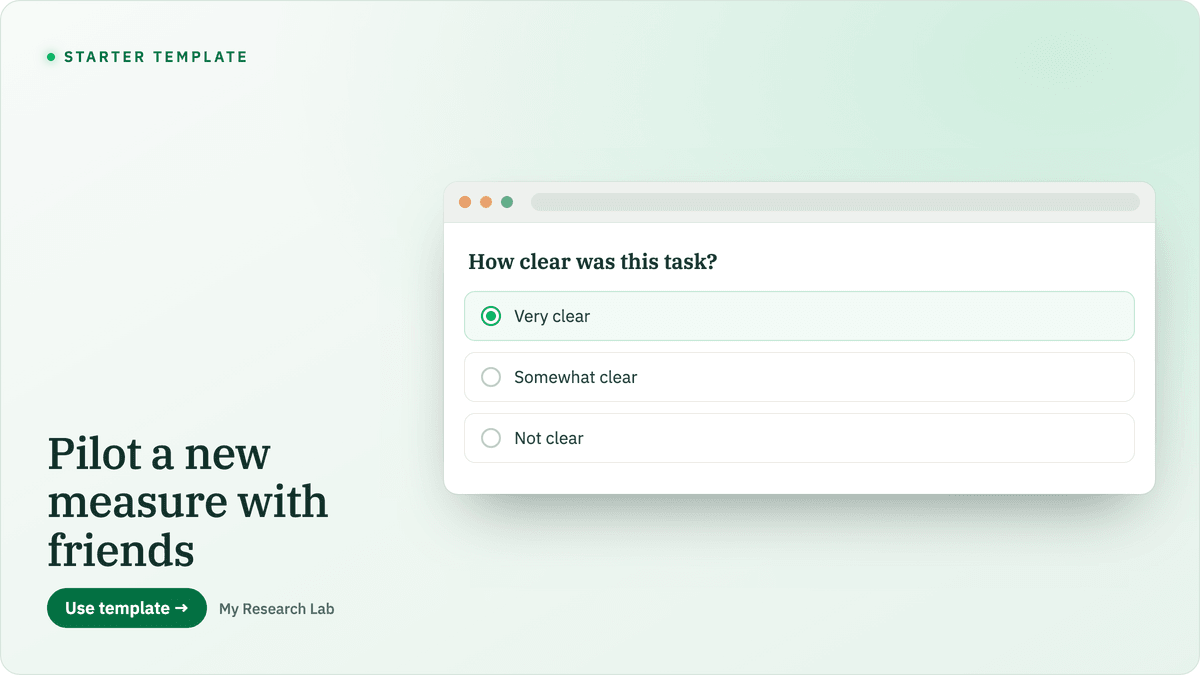
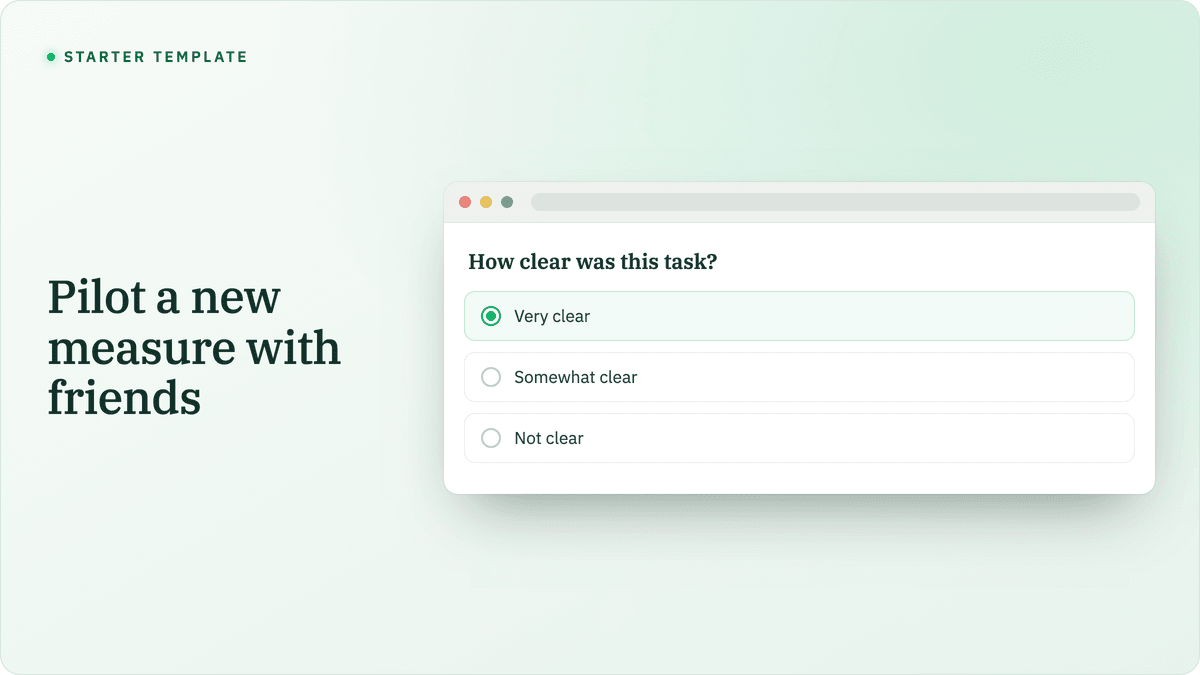
feat(explore): lead with starter covers, drop the use-case band
Owner feedback: the "Start with a use case" band duplicated the Featured
starter templates once those carried real covers. Removed it — Featured
starter templates is now the lead band, widened to a 2-up desktop grid.

Its two unique hooks are preserved:
- the guided Builder tutorial now rides the Featured card's "Use template"
  for tour-enabled starters (misinfo/A-B/pilot) via a new optional tourSlug
  on UseTemplateButton (-> ?tour=<slug>); non-tour starters open plain.
- a persistent "Browse published studies ->" link now sits in the Explore
  header (previously only the removed scenario + the conditional community
  band pointed at /browse).

Covers refreshed per feedback: dropped the "Use template" pill + "My
Research Lab" wordmark from the frame; added a 4th cover for the Quick
opinion survey starter. Rendered via Playwright, committed to
public/explore-covers/.

Deleted the now-dead ExploreScenarioCard + content/explore/scenarios.ts
(+ its test); the tour infra (scenario-tour-steps.ts) is untouched and
StartTutorialButton is independent. Wireframe amended; use-case-card
wireframe marked superseded.

tsc/lint clean; 935 tests; build 25/25; validator 264. No migration.

diff --git a/05_app/components/feature/explore/explore-content.tsx b/05_app/components/feature/explore/explore-content.tsx
@@ -2,10 +2,13 @@ import { LayoutTemplate } from "lucide-react";
 import Link from "next/link";
 import type { Route } from "next";
 
-import { ExploreScenarioCard } from "@/components/feature/explore/explore-scenario-card";
 import { templateCoverSrc } from "@/components/feature/explore/template-cover";
 import { UseTemplateButton } from "@/components/feature/library/use-template-button";
-import { getExploreScenarios } from "@/content/explore/scenarios";
+import {
+  STARTER_AB_TEMPLATE_ID,
+  STARTER_MISINFO_TEMPLATE_ID,
+  STARTER_PILOT_TEMPLATE_ID,
+} from "@/lib/system/starter";
 
 /**
  * Explore content island (EE1, ADR-0076; explore-destination.md). One component
@@ -14,9 +17,12 @@ import { getExploreScenarios } from "@/content/explore/scenarios";
  * workspace-scoped affordances. The dynamic data is fetched by the page and
  * passed in, so the island stays presentational + shell-agnostic.
  *
- * EE1.3 wired the curated scenarios (EE1.2) + the dynamic featured-templates and
- * community-studies bands. Empty dynamic bands collapse (no empty shells); the
- * researcher showcase awaits opt-in profiles (EE2).
+ * Bands: featured starter templates → community studies → opt-in researcher
+ * showcase (all collapse when empty). The earlier "Start with a use case" band
+ * was removed (owner 2026-07-04): it duplicated the featured templates. Its two
+ * unique hooks were preserved — the guided tour now rides the featured cards'
+ * "Use template" (via STARTER_TOUR_SLUG → UseTemplateButton), and a persistent
+ * "Browse published studies" link in the header keeps /browse reachable.
  */
 export type FeaturedTemplate = {
   id: string;
@@ -44,6 +50,19 @@ const COVER_FRAME = "aspect-[16/9] w-full overflow-hidden";
 const COVER_PLACEHOLDER =
   "flex size-full items-center justify-center bg-gradient-to-br from-[var(--color-primary-subtle)] to-[var(--color-surface-subtle)]";
 
+/**
+ * Tour-enabled starter templates → their guided-tour slug (= scenario slug the
+ * BuilderScenarioTour narrows via scenarioTourFor). Featured cards for these
+ * starters open the Builder with `?tour=`, preserving the guided tutorial that
+ * used to launch from the removed "Start with a use case" band. Starters absent
+ * here (e.g. survey) just open the Builder with no tour.
+ */
+const STARTER_TOUR_SLUG: Record<string, string> = {
+  [STARTER_MISINFO_TEMPLATE_ID]: "misinformation-study",
+  [STARTER_AB_TEMPLATE_ID]: "prolific-ab-test",
+  [STARTER_PILOT_TEMPLATE_ID]: "pilot-with-friends",
+};
+
 export function ExploreContent({
   isPublic = false,
   featuredTemplates = [],
@@ -55,39 +74,32 @@ export function ExploreContent({
   communityStudies?: CommunityStudy[];
   showcaseProfiles?: ShowcaseProfile[];
 }) {
-  const scenarios = getExploreScenarios();
   return (
     <div className="flex flex-col gap-4">
-      <header className="flex flex-col gap-1">
-        <h1 className="font-serif text-[length:var(--text-display)] font-medium text-[var(--color-text-primary)]">
-          Explore
-        </h1>
-        <p className="text-[length:var(--text-body)] text-[var(--color-text-secondary)]">
-          See what you can run, then make it yours.
-        </p>
+      <header className="flex flex-wrap items-end justify-between gap-3">
+        <div className="flex flex-col gap-1">
+          <h1 className="font-serif text-[length:var(--text-display)] font-medium text-[var(--color-text-primary)]">
+            Explore
+          </h1>
+          <p className="text-[length:var(--text-body)] text-[var(--color-text-secondary)]">
+            See what you can run, then make it yours.
+          </p>
+        </div>
+        <Link
+          href={(isPublic ? "/signup" : "/browse") as Route}
+          className="text-[length:var(--text-body)] font-medium text-[var(--color-primary)] hover:underline"
+        >
+          Browse published studies →
+        </Link>
       </header>
 
-      {/* Band 1 — curated use-case scenarios (EE1.2) */}
-      <section aria-labelledby="explore-scenarios" className={BAND}>
-        <h2 id="explore-scenarios" className={BAND_TITLE}>
-          Start with a use case
-        </h2>
-        <ul className="grid grid-cols-2 gap-3 lg:grid-cols-4">
-          {scenarios.map((s) => (
-            <li key={s.slug}>
-              <ExploreScenarioCard scenario={s} isPublic={isPublic} />
-            </li>
-          ))}
-        </ul>
-      </section>
-
-      {/* Band 2 — featured starter templates (collapses when none) */}
+      {/* Band 1 — featured starter templates (collapses when none) */}
       {featuredTemplates.length > 0 ? (
         <section aria-labelledby="explore-templates" className={BAND}>
           <h2 id="explore-templates" className={BAND_TITLE}>
             Featured starter templates
           </h2>
-          <ul className="grid grid-cols-1 gap-4 sm:grid-cols-2 lg:grid-cols-3">
+          <ul className="grid grid-cols-1 gap-4 sm:grid-cols-2 lg:grid-cols-2">
             {featuredTemplates.map((t) => {
               const coverSrc = templateCoverSrc(t);
               return (
@@ -124,7 +136,7 @@ export function ExploreContent({
                           Use template
                         </Link>
                       ) : (
-                        <UseTemplateButton templateId={t.id} />
+                        <UseTemplateButton templateId={t.id} tourSlug={STARTER_TOUR_SLUG[t.id]} />
                       )}
                     </div>
                   </div>
@@ -136,7 +148,7 @@ export function ExploreContent({
         </section>
       ) : null}
 
-      {/* Band 3 — community studies (collapses when none) */}
+      {/* Band 2 — community studies (collapses when none) */}
       {communityStudies.length > 0 ? (
         <section aria-labelledby="explore-community" className={BAND}>
           <div className="flex items-baseline justify-between gap-3">
@@ -185,7 +197,7 @@ export function ExploreContent({
         </section>
       ) : null}
 
-      {/* Band 4 — opt-in researcher showcase (EE2): only when profiles exist. */}
+      {/* Band 3 — opt-in researcher showcase (EE2): only when profiles exist. */}
       {showcaseProfiles.length > 0 ? (
         <section aria-labelledby="explore-researchers" className={BAND}>
           <h2 id="explore-researchers" className={BAND_TITLE}>

diff --git a/05_app/components/feature/library/use-template-button.tsx b/05_app/components/feature/library/use-template-button.tsx
@@ -9,11 +9,25 @@ import { api } from "@/lib/trpc/react";
 /**
  * "Use template" CTA for the template detail page (ADR-0063). Forks the frozen
  * version into the active workspace and lands the researcher in the new Builder.
+ *
+ * `tourSlug` (optional): when set, the Builder is opened with `?tour=<slug>` so a
+ * matching guided coachmark tour auto-launches once (localStorage-gated). Used by
+ * the Explore Featured band so its tour-enabled starters (misinfo / A/B / pilot)
+ * keep the guided tutorial that used to live on the "Start with a use case" band.
  */
-export function UseTemplateButton({ templateId }: { templateId: string }) {
+export function UseTemplateButton({
+  templateId,
+  tourSlug,
+}: {
+  templateId: string;
+  tourSlug?: string;
+}) {
   const router = useRouter();
   const use = api.templates.useTemplate.useMutation({
-    onSuccess: (res) => router.push(`/studies/${res.id}/build` as Route),
+    onSuccess: (res) =>
+      router.push(
+        (tourSlug ? `/studies/${res.id}/build?tour=${tourSlug}` : `/studies/${res.id}/build`) as Route,
+      ),
   });
   return (
     <div className="flex flex-col items-start gap-1">

diff --git a/05_app/components/feature/explore/__tests__/explore-content.test.ts b/05_app/components/feature/explore/__tests__/explore-content.test.ts
@@ -18,6 +18,9 @@ describe("templateCoverSrc — featured-template cover precedence (ADR-0091)", (
     expect(templateCoverSrc({ id: STARTER_PILOT_TEMPLATE_ID, coverImageR2Key: null })).toBe(
       "/explore-covers/pilot.png",
     );
+    expect(templateCoverSrc({ id: "starter-survey-v1", coverImageR2Key: null })).toBe(
+      "/explore-covers/survey.png",
+    );
   });
 
   it("the committed starter asset wins even if a coverImageR2Key is also set", () => {
@@ -32,9 +35,7 @@ describe("templateCoverSrc — featured-template cover precedence (ADR-0091)", (
     );
   });
 
-  it("a template with neither returns null (card falls back to the gradient)", () => {
+  it("a non-starter template with neither returns null (card falls back to the gradient)", () => {
     expect(templateCoverSrc({ id: "user-template-123", coverImageR2Key: null })).toBeNull();
-    // The survey starter intentionally has no committed cover yet.
-    expect(templateCoverSrc({ id: "starter-survey-v1", coverImageR2Key: null })).toBeNull();
   });
 });

diff --git a/05_app/components/feature/explore/template-cover.ts b/05_app/components/feature/explore/template-cover.ts
@@ -2,6 +2,7 @@ import {
   STARTER_AB_TEMPLATE_ID,
   STARTER_MISINFO_TEMPLATE_ID,
   STARTER_PILOT_TEMPLATE_ID,
+  STARTER_SURVEY_TEMPLATE_ID,
 } from "@/lib/system/starter";
 
 /**
@@ -18,6 +19,7 @@ const STARTER_TEMPLATE_COVERS: Record<string, string> = {
   [STARTER_MISINFO_TEMPLATE_ID]: "/explore-covers/misinfo.png",
   [STARTER_AB_TEMPLATE_ID]: "/explore-covers/ab.png",
   [STARTER_PILOT_TEMPLATE_ID]: "/explore-covers/pilot.png",
+  [STARTER_SURVEY_TEMPLATE_ID]: "/explore-covers/survey.png",
 };
 
 /**

diff --git a/03_design/wireframes/explore-destination.md b/03_design/wireframes/explore-destination.md
@@ -5,6 +5,8 @@
 - **Persona:** [Postdoc operator](../../02_product/personas/postdoc-operator.md)
 - **Status:** draft
 
+> **Amendment 2026-07-04 (owner):** The **Use-case scenarios band** ("Start with a use case") was **removed** — it duplicated the Featured starter templates once those carried real covers. Featured starter templates is now the lead band. Its two unique hooks were preserved: (a) the **guided tutorial** now launches from the Featured card's "Use template" for tour-enabled starters (misinfo / A/B / pilot) via `?tour=`, and (b) a persistent **"Browse published studies →"** link now lives in the header band (previously only the curated "replicate-published" scenario + the community band's conditional "Browse all" pointed at `/browse`). The `content/explore/scenarios.ts` module + `ExploreScenarioCard` were deleted (dead code). Featured tiles widened to a 2-up grid on desktop.
+
 ## Purpose
 
 > One sentence: what this screen exists to do.
@@ -17,21 +19,20 @@ Show a researcher (or a prospect) what Massive Research Tool can do and give the
 
 Single scrolling column on `surface.page` parchment, max-width ~1100px centred, vertical rhythm of stacked **bands** (modular floating cards on parchment, per design language v0.6):
 
-1. **Header band** — Plex Serif headline ("Explore") + one-line subhead. In the authed variant this sits under the standard workspace TopBar; in the public variant it sits under the marketing header (see [explore-public-route-header](./explore-public-route-header.md)).
-2. **Use-case scenarios band** — 2-up (desktop) / 1-up (mobile) grid of scenario cards (see [explore-use-case-card](./explore-use-case-card.md)). Always present (curated; never empty).
-3. **Featured starter templates band** — section heading + horizontal card grid (up to 6), each a template card (cover, name, description, use-count, "Use this template"). "See all templates →" link to Library/Browse.
-4. **Community studies band** — section heading + card grid (6–9) of public studies (title, author, tags, use-count, "Replicate"). "See more →" → `/browse`.
-5. **Researcher showcase band** — avatars + names of opt-in researchers; entire band omitted when none exist.
+1. **Header band** — Plex Serif headline ("Explore") + one-line subhead on the left; a persistent **"Browse published studies →"** link on the right (→ `/browse`, or `/signup` in the public variant). In the authed variant this sits under the standard workspace TopBar; in the public variant it sits under the marketing header (see [explore-public-route-header](./explore-public-route-header.md)).
+2. **Featured starter templates band** (lead band) — section heading + card grid, **2-up on desktop** / 1-up on mobile (up to 6), each a template card (cover image, name, description, use-count, "Use template"). Tour-enabled starters (misinfo / A/B / pilot) launch the guided Builder tour on use.
+3. **Community studies band** — section heading + card grid (6–9) of public studies (title, author, tags, use-count, "Replicate"). Header "Browse all →" → `/browse`.
+4. **Researcher showcase band** — opt-in researchers; entire band omitted when none exist.
 
-Bands 3–5 are dynamic; band 2 is curated and carries the page if the catalogue is cold.
+All three bands are dynamic and collapse when empty. The app-shipped starter templates (seeded) keep the Featured band populated on a cold catalogue, so it reliably carries the page.
 
 ## Content inventory
 
 > Every piece of content visible on the screen.
 
 - **Page headline + subhead** — static copy ("Explore" / "See what you can run, then make it yours").
-- **Scenario cards** — from Markdown files in `content/explore/scenarios/*.md` (title, 2-sentence body, cover image, primary CTA, optional "Read more →"). 5–8 to start.
-- **Featured template cards** — server: `explore.featuredTemplates` (starter + public, by use-count). Cover image, name, description (~140 chars), use-count, CTA.
+- **Browse link** — static "Browse published studies →" in the header (→ `/browse`, or `/signup` when public).
+- **Featured template cards** — server: `explore.featuredTemplates` (starter + public, by use-count). Cover image (committed starter art keyed by starter id, ADR-0091, else `coverImageR2Key`, else gradient), name, description (~140 chars), use-count, "Use template" CTA (`UseTemplateButton`, with an optional `tourSlug` for tour-enabled starters).
 - **Community study cards** — server: `explore.communityStudies` (recent + most-replicated public studies). Title, author display name, up to 3 tags, use-count, "Replicate".
 - **Researcher showcase** — server: `explore.publicProfiles` (opt-in, ≥1 published study). Avatar, name, handle.
 - **Section "see more" links** — static routes (`/browse`, library).
@@ -40,9 +41,9 @@ Bands 3–5 are dynamic; band 2 is curated and carries the page if the catalogue
 
 > Describe each.
 
-- **Default** — header + scenarios + any populated dynamic bands.
-- **Loading** — scenarios render immediately (static/SSR); dynamic bands show skeleton card rows.
-- **Empty** — cold catalogue: dynamic bands (templates/community/researchers) collapse entirely (no empty shells); scenarios band always carries the page. No global empty state.
+- **Default** — header (with Browse link) + any populated dynamic bands (Featured leads).
+- **Loading** — header renders immediately (static/SSR); dynamic bands show skeleton card rows.
+- **Empty** — cold catalogue: community/researcher bands collapse (no empty shells). Featured stays populated by the seeded starter templates, so it carries the page; the header Browse link is always present. No global empty state.
 - **Partial** — some dynamic bands populated, others collapsed; render what exists.
 - **Error** — a dynamic query failing collapses only its own band (logged); the page still renders. No full-page error.
 - **Success/optimistic** — clicking a CTA shows a pending state on that card's button (PendingButton) until the fork resolves / navigation occurs.
@@ -51,9 +52,8 @@ Bands 3–5 are dynamic; band 2 is curated and carries the page if the catalogue
 
 > For each interactive element.
 
-- **Scenario primary CTA ("Use this starter template")** — authed: fork the scenario's template → redirect to Builder; anonymous: route to sign-up carrying the fork intent. Degrades to "Browse public studies" / "Build from scratch" when no template is configured. Error → toast, stay on Explore.
-- **Scenario "Read more →"** — opens the scenario's docs page (new tab when public).
-- **Template card "Use this template"** — fork (authed) or sign-up-then-fork (anonymous).
+- **Header "Browse published studies →"** — navigate to `/browse` (authed) or `/signup` (public). Always present.
+- **Template card "Use template"** — authed: fork the starter into the active workspace → redirect to Builder; for tour-enabled starters (misinfo / A/B / pilot) the Builder opens with `?tour=<slug>` so the guided coachmark tour auto-launches once. Anonymous: sign-up-then-fork. Pending state on the button until the fork resolves. Error → inline "Couldn't use this template" message, stay on Explore.
 - **Community study "Replicate"** — `studies.fork` (authed) or sign-up-then-fork (anonymous).
 - **Researcher avatar** — navigate to `/u/<handle>`.
 - **"See more / See all" links** — navigate to `/browse` / library.
@@ -82,5 +82,5 @@ Bands 3–5 are dynamic; band 2 is curated and carries the page if the catalogue
 
 > Resolve before high-fi.
 
-- Final band order on first paint (assume scenarios → templates → community → researchers).
+- Band order on first paint: featured templates → community → researchers (resolved; scenarios band removed 2026-07-04).
 - Whether the public variant pre-renders dynamic bands for SEO or hydrates them (resolved in the Explore ADR).

diff --git a/03_design/wireframes/explore-use-case-card.md b/03_design/wireframes/explore-use-case-card.md
@@ -5,6 +5,8 @@
 - **Persona:** [Postdoc operator](../../02_product/personas/postdoc-operator.md)
 - **Status:** draft
 
+> **⚠️ Superseded 2026-07-04 (owner) — do not implement.** The Explore "Start with a use case" scenarios band this card belonged to was removed — it duplicated the Featured starter templates once those carried real covers. The card component (`ExploreScenarioCard`) and its content module (`content/explore/scenarios.ts`) were deleted. See the amendment in [explore-destination](./explore-destination.md). Kept as the historical record for [ADR-0076](../../04_architecture/adrs/0076-explore-destination.md); do not implement.
+
 ## Purpose
 
 > One sentence: what this screen exists to do.